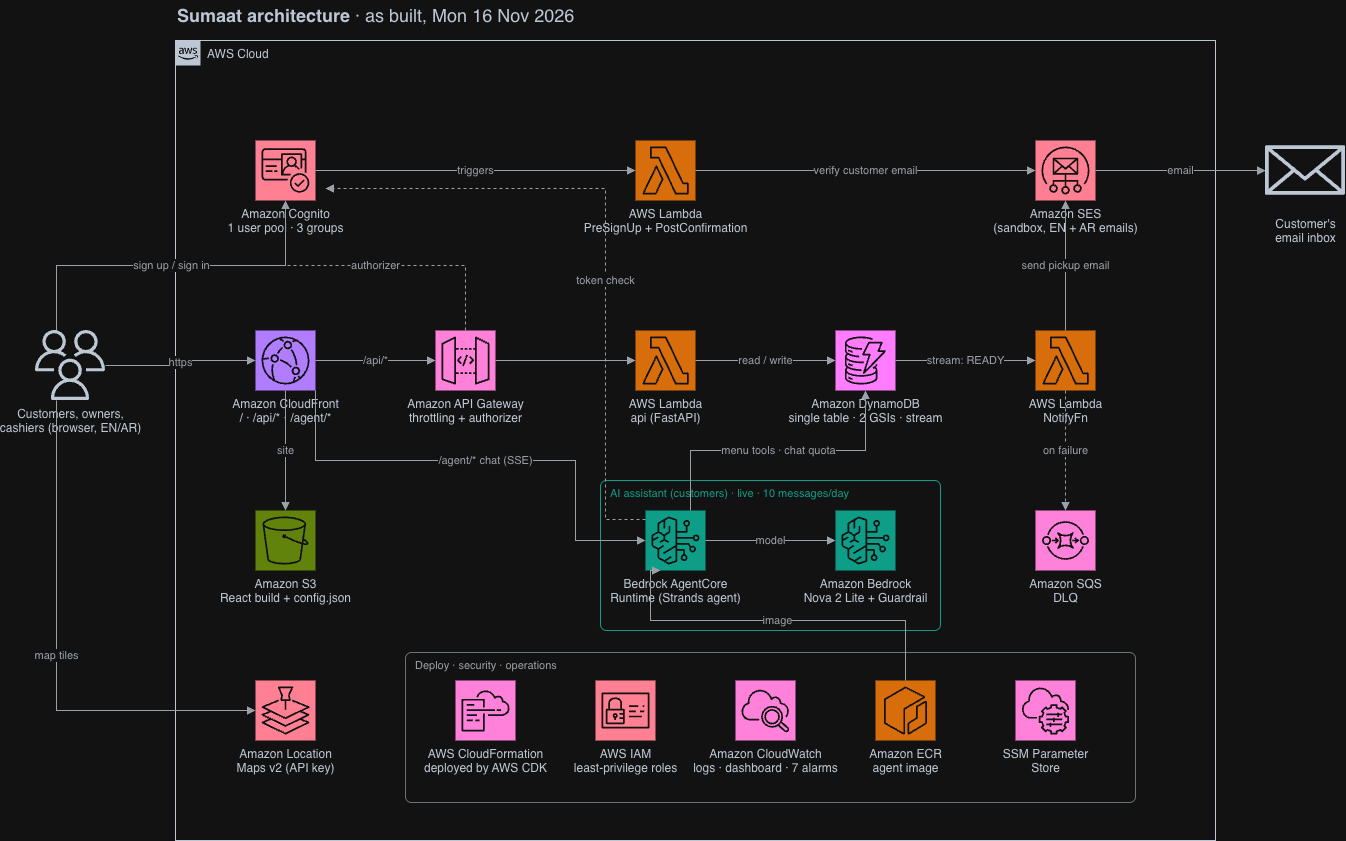
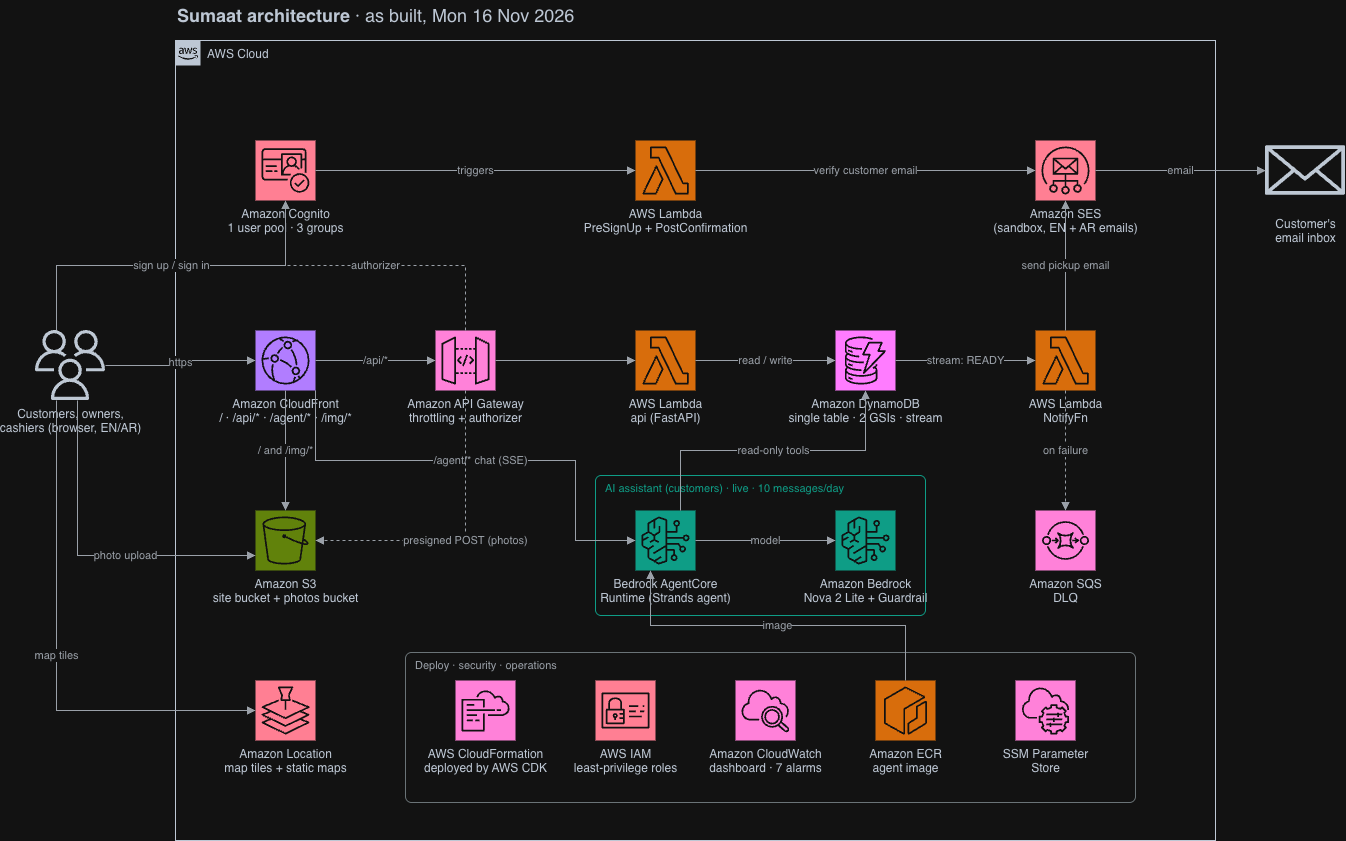
docs: update architecture doc, readme and diagram for photos and maps

diff --git a/docs/architecture.md b/docs/architecture.md
@@ -1,9 +1,9 @@
 # Sumaat — architecture
 
-*As built, Mon 16 Nov 2026.* Diagram source: [`sumaat-architecture-v4.drawio`](sumaat-architecture-v4.drawio)
+*As built, Mon 16 Nov 2026.* Diagram source: [`architecture-editable.drawio`](architecture-editable.drawio)
 (open in [diagrams.net](https://app.diagrams.net)).
 
-![Sumaat architecture](sumaat-architecture-v4.drawio.png)
+![Sumaat architecture](architecture.png)
 
 ## 1. Product
 
@@ -13,6 +13,12 @@
 - No delivery. Customers order ahead and **pay at the counter** (cash or card). Prices include 15% VAT.
 - Bilingual **English / Arabic** (full right-to-left layout), Western digits, Riyadh time.
 - Three roles, **one role per account**: **customer**, **owner**, **cashier**.
+- **Photos**: owners upload, replace and delete a restaurant photo and dish photos; customers see them on the
+  restaurant cards, the menu, the dish cards, the cart and the order page (a plate icon or text-only dish when there
+  is none).
+- **Location preview + Go**: a small view-only map of the restaurant (Amazon Location static map) with a **Go** button
+  that opens Google Maps directions (the app on phones). Shown on the menu page, the order page and the owner's
+  restaurant page.
 - **AI assistant (customers only)**: a chat panel that finds restaurants and dishes near the customer's map spot
   (cuisine, diet tags, calories, price, open now), replies in the customer's language and can **draft** a cart.
   The customer reviews it, adds it to the cart and places the order. 10 messages per customer per day.
@@ -26,7 +32,8 @@
 | **Sign-up / sign-in** | Browser → Cognito (email + password). **PreSignUp** Lambda refuses bad name/email/phone; **PostConfirmation** Lambda puts the user in their group and asks SES to verify new customers' emails (SES sandbox). |
 | **Pickup email** | Order status → `READY_FOR_PICKUP` → DynamoDB Stream (filtered to that change only) → **NotifyFn** → SES email (EN + AR). Exactly once (conditional write); failures go to an SQS dead-letter queue. |
 | **AI chat** | Browser → CloudFront `/agent/*` (a CloudFront Function rewrites to the runtime URL) → **Bedrock AgentCore Runtime**, which checks the Cognito access token itself → Strands agent (container image in **Amazon ECR**, built and pushed by CDK) → **Amazon Nova 2 Lite** with a **Bedrock Guardrail**. Tools read restaurants and menus from DynamoDB; replies stream back as server-sent events. |
-| **Maps** | Browser → Amazon Location Service (Maps v2) with an API key restricted to the site's address. |
+| **Photos** | Owner's browser shrinks the photo to a ~1200 px JPEG → `POST /api/restaurants/{id}/image-upload` returns a **presigned S3 POST** (one server-made key, JPEG only, ≤ 3 MB, valid 5 minutes) → the browser uploads **straight to the private photos bucket** (photo bytes never pass through Lambda) → `PUT …/image` checks the file is there and saves it on the restaurant or dish (the replaced file is deleted). Customers load photos from CloudFront `/img/*` (photos bucket via Origin Access Control, cached for a year: every upload gets a new name). |
+| **Maps** | Browser → Amazon Location Service (Maps v2) with an API key restricted to the site's address: map tiles for the interactive maps (browse, owner location picker) and **static map images** for the location preview. The **Go** button is a plain link to Google Maps directions. |
 
 ## 3. Business rules
 
@@ -37,17 +44,24 @@
 - **One open order per customer per restaurant** (released when served, rejected or cancelled).
 - **Prices always come from the database** — the client never sends prices.
 - **Opening hours are automatic** (Riyadh time, incl. past midnight and 24 h); owner or cashier can pause new orders.
-- **Menu items are never deleted**, only hidden (past orders keep their own copy of names and prices).
+- **Menu items are never deleted**, only hidden (past orders keep their own copy of names and prices). In the
+  owner's menu, hidden dishes sit at the bottom of their section.
 - Fixed lists: 21 menu categories (stored in the database, extendable without a deploy), 14 diet tags,
   14 cuisines (1–3 per restaurant). Restaurant descriptions in English and Arabic.
 - Near-me search: 1 / 3 / 4 km (the geohash grid guarantees 4.4 km).
 - **Input rules** are identical in the web forms, the API and the Cognito PreSignUp check (name, Saudi mobile
   `5XXXXXXXX` → `+9665XXXXXXXX`, email). The API trims all text input before validating.
+- **Order note** (optional, max 200): Arabic/English letters, digits (0-9 and ٠-٩), emoji, new lines and basic
+  punctuation only. The web warns and blocks ordering; the API refuses anything else with a 422.
+- **Photos**: JPEG, max 3 MB, one per restaurant and per dish. Orders don't store photos, so deleting one never
+  breaks an order (the order page shows the dish's current photo).
 
 ## 4. Data model (one DynamoDB table)
 
 - Restaurant profile, menu items, cashiers and daily order counters share the **restaurant's partition**, so one
   query loads a restaurant and its menu.
+- Profiles and menu items may carry an `imageKey` (the photo's S3 key). The API returns `imageUrl` (`/img/…` on the
+  site's own address), never the key itself.
 - Orders have their own items, with two indexes: a restaurant's orders by time, a customer's orders by time.
 - A **geohash index** powers "near me".
 - Small **lock items** enforce "one restaurant per owner" and "one open order per customer per restaurant".
@@ -61,11 +75,16 @@ AWS CDK (Python), 7 stacks deployed in order:
 |---|---|
 | **SumaatData** | DynamoDB table (on-demand, point-in-time recovery, stream on), 2 global secondary indexes |
 | **SumaatAuth** | Cognito user pool + web client, 3 groups, PreSignUp + PostConfirmation Lambdas |
-| **SumaatApi** | FastAPI on Lambda (Docker-bundled package), REST API Gateway, Cognito authorizer, throttling, access logs |
+| **SumaatApi** | FastAPI on Lambda (Docker-bundled package), REST API Gateway, Cognito authorizer, throttling, access logs; may put/get/delete objects only under `img/` in the photos bucket |
 | **SumaatAgent** | AgentCore Runtime (container from `agent/`, image in ECR via CDK assets, JWT authorizer), Bedrock Guardrail + version, least-privilege role, 1-month logs |
-| **SumaatWeb** | S3 + CloudFront (+ 2 CloudFront Functions), Amazon Location map key, generated `config.json` |
+| **SumaatWeb** | Site bucket + **photos bucket** (S3) + CloudFront (`/`, `/api/*`, `/agent/*`, `/img/*`; 3 CloudFront Functions), Amazon Location map key (tiles + static maps), generated `config.json` |
 | **SumaatNotify** | DynamoDB-stream email Lambda (filtered), SQS dead-letter queue |
 | **SumaatOps** | CloudWatch dashboard + 7 alarms |
+
+**Why does the photos bucket have a fixed name?** It lives in SumaatWeb (so CloudFront's Origin Access Control is
+scoped to our distribution), but SumaatApi is deployed earlier and needs it for permissions. A fixed name
+(`sumaat-images-<account>-<region>`) lets the API refer to it without a cross-stack reference, so there is no
+dependency loop.
 
 **Why a container for the agent?** AgentCore can run either a container image (ECR) or a zip in S3. The
 container keeps Python 3.14 like the rest of the app and packages the shared `api/` code exactly as tested;
@@ -76,9 +95,14 @@ CDK builds and pushes the image, and storage costs cents.
 - **Secure by default:** every API route needs a login except four public browse routes; API Gateway rejects bad
   tokens before any code runs. The API then checks the role and that staff belong to *that* restaurant (owner
   checked against the database; a disabled cashier is locked out immediately, even mid-session).
-- **Least-privilege IAM** per Lambda; Cognito admin actions limited to this user pool.
+- **Least-privilege IAM** per Lambda; Cognito admin actions limited to this user pool; the API may only
+  put/get/delete objects under `img/` in the photos bucket.
 - **Server-side input validation:** the PreSignUp Lambda checks every new account (website, scripts, cashiers
-  created by the API); the API returns a 422 naming the field.
+  created by the API); the API returns a 422 naming the field. The order note is checked by the API too.
+- **Photos:** only the restaurant's owner can upload, replace or delete. Photo names are made by the server; a photo
+  is saved only if its name belongs to that restaurant (or dish) and the file really is a JPEG of at most 3 MB. The
+  photos bucket is private (CloudFront reads it through Origin Access Control, HTTPS only); uploads need a short-lived
+  signed form from the API.
 - **Privacy:** logs never contain emails, phones, names, tokens or passwords. The customer's email is stored only
   for the pickup email and never returned by the API. The sender address is in SSM Parameter Store, not in code.
 - **AI safety:** Bedrock Guardrail (EN + AR): strict content filters, prompt-attack filter, profanity list,
@@ -87,7 +111,7 @@ CDK builds and pushes the image, and storage costs cents.
   restaurant/menu/config rows and update its own chat-quota rows — never orders or customers (verified with IAM
   policy simulation). The agent only drafts a cart; it never places orders. Traces contain no message text.
 - **cdk-nag (AWS Solutions rules)** runs on every stack at synth: **0 unsuppressed findings**. Each of the
-  28 suppressions has a written reason; the main ones:
+  30 suppressions (one per rule per stack) has a written reason; the main ones:
 
 | Rule(s) | Decision |
 |---|---|
@@ -95,8 +119,8 @@ CDK builds and pushes the image, and storage costs cents.
 | APIG4, COG4 (public routes) | Browsing restaurants/menus/categories and the health check need no login; CORS preflight can't carry a token. |
 | APIG2 (request validation) | Bodies are validated in the app by Pydantic (unknown fields rejected, strict integers for money). |
 | COG2, COG3, COG8 (MFA, threat protection) | POC uses the Cognito Essentials plan, email + password; revisit Plus/MFA for production. |
-| CFR1, CFR3, CFR4, S1 | No geo restriction (demo audience anywhere); no CloudFront/S3 access logs (API access logs + dashboard cover the demo); default CloudFront certificate until a custom domain is added. |
-| IAM4, IAM5, L1 | AWS-managed *logging-only* policies; wildcards only where AWS requires them or scoped to our own table indexes / SES identities / pool; Python 3.14 pinned project-wide; CDK-managed helper Lambdas. |
+| CFR1, CFR3, CFR4, S1 | No geo restriction (demo audience anywhere); no CloudFront/S3 access logs on the site and photos buckets (API access logs + dashboard cover the demo); default CloudFront certificate until a custom domain is added. |
+| IAM4, IAM5, L1 | AWS-managed *logging-only* policies; wildcards only where AWS requires them or scoped to our own table indexes / SES identities / pool / `img/*` in the photos bucket (photo names are new on every upload); Python 3.14 pinned project-wide; CDK-managed helper Lambdas. |
 | SQS3 | The queue *is* the dead-letter queue. |
 
 ## 7. Operations and cost
@@ -109,15 +133,18 @@ CDK builds and pushes the image, and storage costs cents.
   Missing data counts as OK.
 - All Lambdas and API access logs go to CloudWatch Logs, kept one month.
 - **Cost guards:** pay-per-request everywhere (DynamoDB on-demand, Lambda, API Gateway, CloudFront, AgentCore),
-  API throttling, map key restricted to the site, 10 AI messages per customer per day. Demo traffic costs cents.
+  API throttling, map key restricted to the site, 10 AI messages per customer per day. Photos are shrunk in the
+  browser before upload and served from CloudFront's cache. Demo traffic costs cents.
 
 ## 8. Quality
 
-- ~790 backend unit tests (pytest + moto) covering the API, Lambdas, agent, every CDK stack (incl. cdk-nag) and
-  a demo-data quality check; 178 frontend tests (Vitest).
-- A live smoke test calls every API route through CloudFront (112 checks), plus optional real AI replies.
+- 834 backend unit tests (pytest + moto) covering the API (incl. photos and the order-note rule), Lambdas, agent,
+  every CDK stack (incl. cdk-nag) and a demo-data quality check; 204 frontend tests (Vitest).
+- A live smoke test calls the API through CloudFront (112 checks), plus optional real AI replies. The photo routes
+  are not in it yet; they were tested live end to end (upload, show, replace, delete, wrong owner, missing file).
 
 ## 9. Not in the POC (parked)
 
 SMS notifications (Saudi sender-ID rules), estimated ready time, custom domain, WAF, SES production access,
-Cognito Plus/MFA, alarm notifications (SNS), AgentCore zip deployment instead of a container.
+Cognito Plus/MFA, alarm notifications (SNS), AgentCore zip deployment instead of a container, photo moderation
+(Amazon Rekognition), AI-generated demo photos (Amazon Nova Canvas v1 is retired; demo photos are uploaded by hand).

diff --git a/README.md b/README.md
@@ -6,14 +6,14 @@ AWS Builder Accelerator (11–18 Nov 2026), fully serverless on AWS and deployed
 
 Architecture, design decisions and security: **[docs/architecture.md](docs/architecture.md)**.
 
-![Sumaat architecture](docs/sumaat-architecture-v4.drawio.png)
+![Sumaat architecture](docs/architecture.png)
 
 ## Features
 
 | Role | What they can do |
 |---|---|
-| **Customer** | Browse restaurants near a map spot (1 / 3 / 4 km), filter by cuisine and diet tag, cart, place an order, track it live, get an email when it's ready. **AI assistant**: finds dishes in EN/AR and drafts a cart (10 messages a day). |
-| **Owner** | Set up the restaurant (details, hours, map location, cuisines, Arabic description), edit the menu, manage cashiers, run the order board. |
+| **Customer** | Browse restaurants near a map spot (1 / 3 / 4 km), filter by cuisine and diet tag, see restaurant and dish photos, cart (with an optional note), place an order, track it live, get an email when it's ready. See the restaurant on a small map and tap **Go** for Google Maps directions. **AI assistant**: finds dishes in EN/AR and drafts a cart (10 messages a day). |
+| **Owner** | Set up the restaurant (details, hours, map location, cuisines, Arabic description, **photo**), edit the menu (incl. **dish photos**; hidden dishes sit at the bottom), manage cashiers, run the order board. |
 | **Cashier** | Live order board: accept → ready → served, reject with a reason, pause new orders. |
 
 Order flow: `PLACED → ACCEPTED → READY_FOR_PICKUP → SERVED` (reject/cancel only while `PLACED`). Order numbers
@@ -25,8 +25,9 @@ restart at #1 each business day (04:00 → 04:00 Riyadh). Prices include 15% VAT
   · Cognito · SES · SQS (DLQ)
 - **AI**: Amazon Bedrock AgentCore Runtime · Strands Agents · Amazon Nova 2 Lite · Bedrock Guardrails
 - **Frontend**: React 19 · Vite · TypeScript · Tailwind + DaisyUI · TanStack Query · AWS Amplify (Auth) ·
-  MapLibre GL + Amazon Location Service
-- **Hosting**: S3 + CloudFront (`/api/*` and `/agent/*` on the same address — no CORS in production)
+  MapLibre GL + Amazon Location Service (map tiles and static maps)
+- **Hosting**: S3 + CloudFront (`/api/*`, `/agent/*` and `/img/*` photos on the same address — no CORS in production);
+  photos are uploaded straight to S3 with presigned POSTs
 - **Infra / ops**: AWS CDK (Python) + cdk-nag (AWS Solutions rules) · CloudWatch dashboard + alarms
 
 ## Repository layout
@@ -40,7 +41,7 @@ functions/        Small Lambdas: Cognito PreSignUp / PostConfirmation, pickup-em
 web/              React app
 scripts/          seed data, deploy_web.sh, smoke_test.sh, get_token.py, chat.py
 tests/            pytest (+ moto) unit tests for the API, Lambdas, agent and every stack
-docs/             architecture write-up + diagram (.drawio source and .png)
+docs/             architecture.md + architecture.png (diagram) + architecture-editable.drawio (source)
 ```
 
 ## Prerequisites
@@ -66,7 +67,8 @@ Deploy the stacks in order (each writes outputs to a temp file that is merged in
 ```
 uv run cdk deploy SumaatData SumaatAuth SumaatApi SumaatAgent --outputs-file /tmp/out.json
 jq -s '.[0] * .[1]' outputs.json /tmp/out.json > m.json && mv m.json outputs.json   # (first time: cp /tmp/out.json outputs.json)
-./scripts/deploy_web.sh                  # builds web/ and deploys SumaatWeb (merges outputs itself)
+./scripts/deploy_web.sh                  # builds web/ and deploys SumaatWeb (merges outputs itself; stops to ask if
+                                         # the stack has IAM changes, so run it in a terminal the first time)
 uv run cdk deploy SumaatNotify SumaatOps --outputs-file /tmp/out.json   # then merge as above
 ```
 
@@ -74,9 +76,9 @@ uv run cdk deploy SumaatNotify SumaatOps --outputs-file /tmp/out.json   # then m
 |---|---|
 | SumaatData | DynamoDB table (on-demand, PITR, stream), 2 GSIs |
 | SumaatAuth | Cognito user pool + web client, 3 groups, PreSignUp + PostConfirmation Lambdas |
-| SumaatApi | FastAPI Lambda, REST API Gateway, Cognito authorizer, throttling, access logs |
+| SumaatApi | FastAPI Lambda, REST API Gateway, Cognito authorizer, throttling, access logs, photo upload permissions (`img/*` only) |
 | SumaatAgent | AgentCore Runtime (container from `agent/`, JWT authorizer), Bedrock Guardrail, least-privilege role |
-| SumaatWeb | S3 + CloudFront (+ 2 CloudFront Functions), Amazon Location map key, generated `config.json` |
+| SumaatWeb | Site + photos S3 buckets, CloudFront (+ 3 CloudFront Functions), Amazon Location map key, generated `config.json` |
 | SumaatNotify | DynamoDB-stream email Lambda (only ACCEPTED → READY), SQS dead-letter queue |
 | SumaatOps | CloudWatch dashboard "Sumaat" + 7 alarms (dashboard only, no notifications) |
 
@@ -85,6 +87,9 @@ Seed the demo data (15 fictional restaurants, 180 dishes, an owner + cashier per
 ```
 SEED_OWNER_PASSWORD='<password>' uv run python scripts/seed.py
 ```
+
+The seed adds no photos; owners upload them in the app (**Restaurant → Photo**, **Menu → Edit → Photo**). Re-running
+the seed keeps photos that were already added.
 
 ## Run and test
 
@@ -96,7 +101,7 @@ SUMAAT_PASSWORD='<password>' VIA=cloudfront ./scripts/smoke_test.sh            #
 SUMAAT_PASSWORD='<password>' uv run python scripts/chat.py <customer-email>     # chat with the AI in the terminal
 ```
 
-Tests: ~790 backend unit tests, 178 frontend tests, and a live smoke test (112 checks).
+Tests: 834 backend unit tests, 204 frontend tests, and a live smoke test (112 checks; photo routes not included yet).
 The smoke test leaves real data behind (finished orders, a "Lamb Mandi" dish, a "Yousef" cashier) by design.
 
 Region: `us-east-1`. Every resource is tagged `project=sumaat`.
